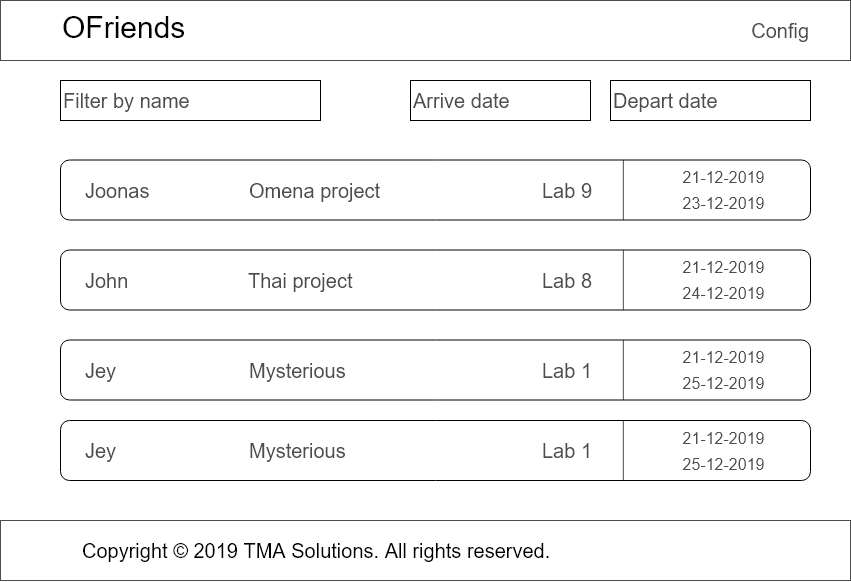
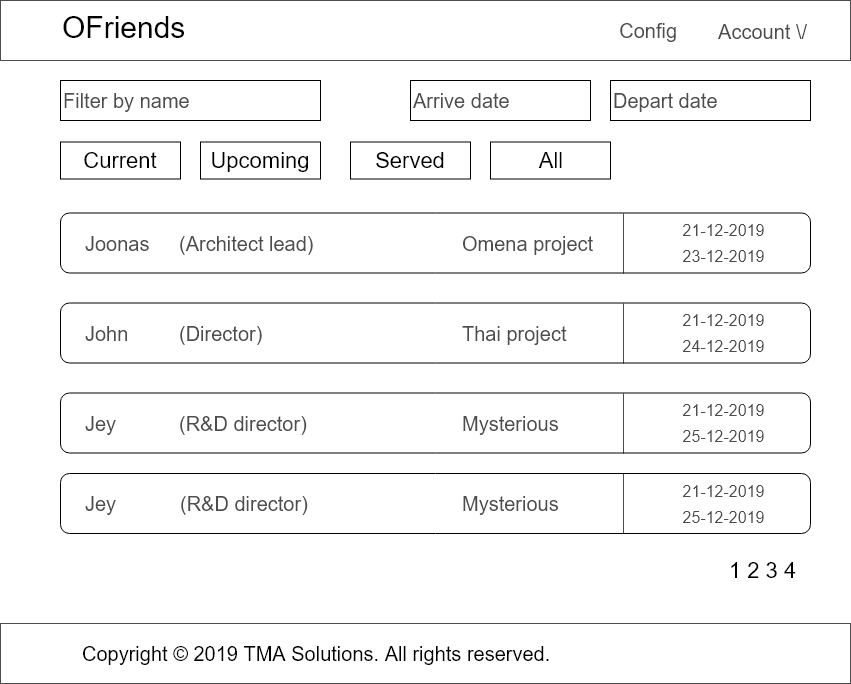
Complete mockup by code

Changed region(s): [[0.0611, 0.0, 0.9471, 0.866], [0.0, 0.9278, 1.0, 1.0], [0.7333, 0.0309, 0.7944, 0.0619]]

diff --git a/web/src/components/customer/Customers.vue b/web/src/components/customer/Customers.vue
@@ -5,11 +5,11 @@
       <el-col :span="12">
         <el-input placeholder="Filter by name" v-model="filterName"></el-input>
       </el-col>
-      <el-col :span="6">
-        <el-input placeholder="Arrive" v-model="filterArrive"></el-input>
+      <el-col :span="6" class="text-right">
+        <el-date-picker v-model="filterArrive" type="date" placeholder="Arrive day"> </el-date-picker>
       </el-col>
-      <el-col :span="6">
-        <el-input placeholder="Depart" v-model="filterDepart"></el-input>
+      <el-col :span="6" class="text-right">
+        <el-date-picker v-model="filterDepart" type="date" placeholder="Depart day"> </el-date-picker>
       </el-col>
     </el-row>
     <div class="space-bottom">
@@ -20,17 +20,34 @@
         <el-radio-button label="All"></el-radio-button>
       </el-radio-group>
     </div>
+    <div class="customers">
+      <Customer/>
+      <Customer/>
+      <Customer/>
+      <Customer/>
+      <Customer/>
+      <Customer/>
+      <Customer/>
+      <Customer/>
+    </div>
   </div>
 </template>
 
 <script>
+import Customer from './Customer'
+
 export default {
   name: 'Customers',
   data: () => {
     return {
       filterName: '',
-      filterTime: 'Current'
+      filterTime: 'Current',
+      filterArrive: new Date(),
+      filterDepart: new Date()
     }
+  },
+  components: {
+    Customer
   }
 }
 </script>

diff --git a/web/src/components/customer/Customer.vue b/web/src/components/customer/Customer.vue
@@ -1,0 +1,46 @@
+<template>
+  <div class="customer">
+    <div class="left">
+      <span>John <label>(architect lead)</label></span>
+      <span class="project">KBTG</span>
+    </div>
+    <div class="right">
+      <span>21-12-2018</span>
+      <span> - </span>
+      <span>22-12-2019</span>
+    </div>
+  </div>
+</template>
+
+<script>
+export default {
+  name: 'Customer'
+}
+</script>
+<style lang="scss" scoped>
+.customer {
+  border: 1px solid $--primary;
+  border-radius: 5px;
+  margin-bottom: 5px
+}
+.left {
+  width: 70%;
+  display: inline-block;
+  padding: 1em;
+  position: relative;
+
+}
+.right {
+  width: 30%;
+  display: inline-block;
+  text-align: center;
+  padding: 1em;
+  border-left: 1px solid $--primary;
+  position: relative;
+}
+.project {
+  position: absolute;
+  display: inline-block;
+  right: 20px;
+}
+</style>

diff --git a/web/src/App.vue b/web/src/App.vue
@@ -1,8 +1,10 @@
 <template>
   <div id="app">
-    <Header/>
-    <Customers msg="Welcome to Your Vue.js App"/>
-    <Footer/>
+    <div id="app-container">
+      <Header/>
+      <Customers msg="Welcome to Your Vue.js App"/>
+      <Footer/>
+    </div>
   </div>
 </template>
 
@@ -21,12 +23,17 @@ export default {
 }
 </script>
 
-<style>
+<style lang="scss">
 #app {
   font-family: 'Avenir', Helvetica, Arial, sans-serif;
   -webkit-font-smoothing: antialiased;
   -moz-osx-font-smoothing: grayscale;
   color: #2c3e50;
+}
+#app-container {
+  height: 100vh;
+  position: relative;
+  padding-bottom: 60px;
 }
 body {
   margin: 0

diff --git a/web/src/components/common/Footer.vue b/web/src/components/common/Footer.vue
@@ -1,5 +1,5 @@
 <template>
-    <el-footer>
+    <el-footer class="full-width">
 
     </el-footer>
 </template>
@@ -12,6 +12,9 @@ export default {
 
 <style lang="scss" scoped>
 .el-footer {
-    background-color: $--primary-color
+    background-color: $--primary;
+    position: absolute;
+    bottom: 0px;
+    left: 0px;
 }
 </style>

diff --git a/web/src/styles/base.scss b/web/src/styles/base.scss
@@ -6,6 +6,18 @@
     font-size: $--font-sm;
 }
 
+.text-center {
+    text-align: center
+}
+
+.text-right {
+    text-align: right
+}
+
+.text-left {
+    text-align: left
+}
+
 .full-width {
     width: 100%;
 }

diff --git a/web/src/components/common/Header.vue b/web/src/components/common/Header.vue
@@ -22,7 +22,7 @@ export default {
 
 <style lang="scss">
 .el-header {
-  background-color: $--primary-color;
+  background-color: $--primary;
   min-height: 36px;
   @include flex
 }

diff --git a/web/src/styles/var.scss b/web/src/styles/var.scss
@@ -1,4 +1,4 @@
-$--primary-color: #409EFF;
+$--primary: #409EFF;
 $--white: #FFF;
 $--black: #2c3e50;
 
